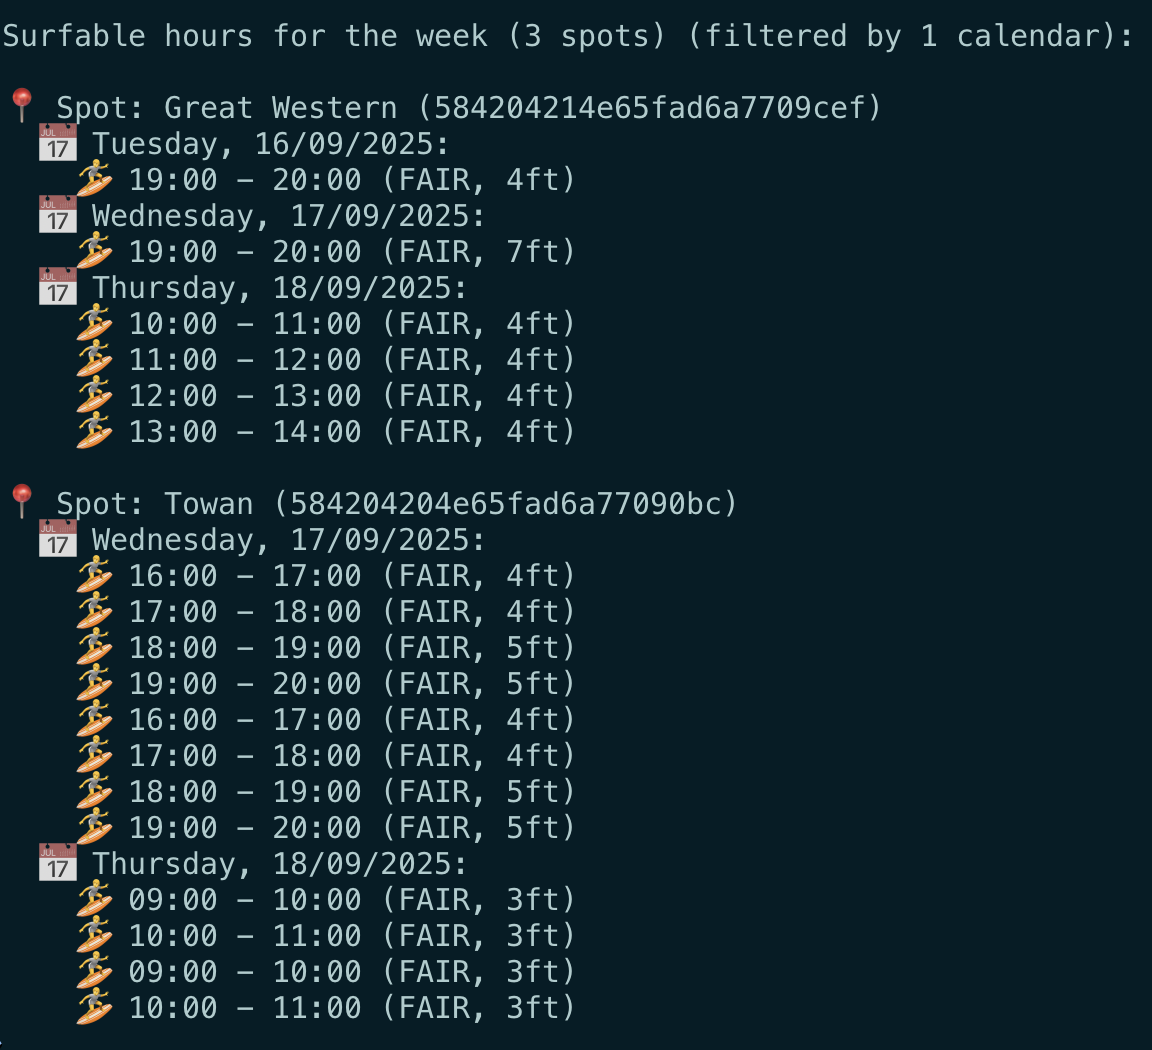
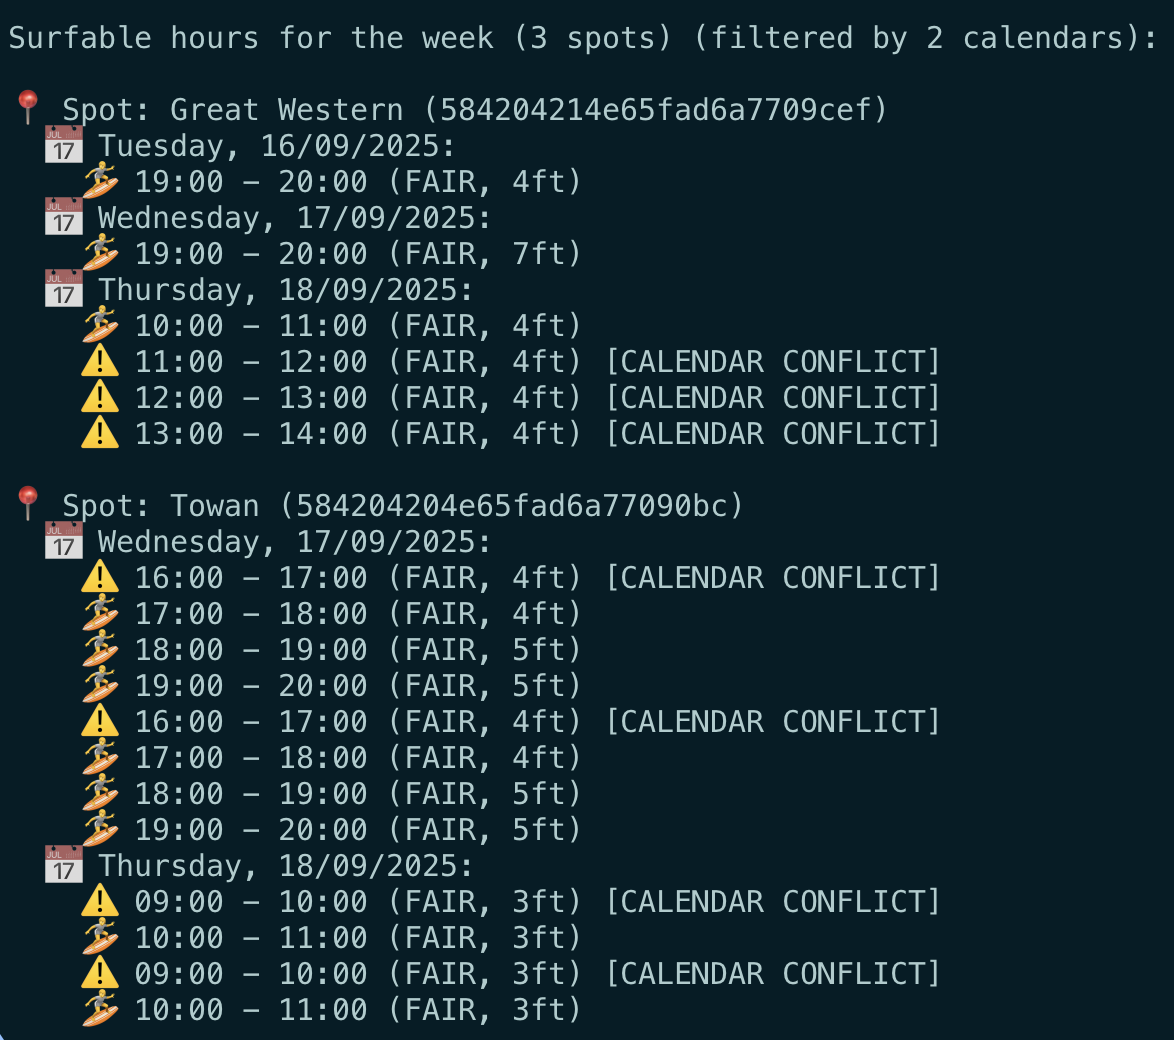
Update README

diff --git a/README.md b/README.md
@@ -9,84 +9,17 @@ Whether you're chasing dawn patrol sessions, planning weekend surf trips, or com
 - 🌊 Real-time surf condition analysis from Surfline's premium data
 - 📅 Smart calendar integration that shows conflicts without hiding opportunities
 - 🎯 Multi-spot comparisons to find the best waves in your area
-- 🤖 AI-powered session scheduling through MCP integration
-- ⚡ Lightning-fast CLI for quick condition checks
+- ⚙ Configurable criteria for wave height and surf rating thresholds
+- ☀ Intelligent filtering to daylight hours only
 - 🔮 7-day forecasting to plan your entire surf week
 
 Example:
 
 ```
-npx surfcal --spotId 584204214e65fad6a7709cef --spotId 584204204e65fad6a77090bc --spotId 584204204e65fad6a77090bc --week --wave-min 3 --rating-min FAIR
+npx surfcal --spotId 584204214e65fad6a7709cef --spotId 584204204e65fad6a77090bc --spotId 584204204e65fad6a77090bc --week --wave-min 3 --rating-min FAIR --calendar personal@gmail.com --calendar work@employer.io
 ```
 
 ![example.png](example.png)
-
-## Prerequisites
-
-- Node.js version ^18.14.0 or ^20.0.0
-- npm (comes with Node.js)
-
-## Setup
-
-1. Clone the repository:
-
-   ```
-   git clone git@github.com:bengro/surfcal.git
-   cd surfcal
-   ```
-
-2. Install dependencies:
-
-   ```
-   npm install
-   ```
-
-3. Set up environment variables:
-   Create a `.env` file in the project root or export the following variables in your shell:
-
-   ```
-   SURFLINE_EMAIL=your_surfline_email@example.com
-   SURFLINE_PASSWORD=your_surfline_password
-   GOOGLE_CALENDAR_API_KEY=your_google_calendar_api_key  # Optional for calendar integration
-   ```
-
-   - `SURFLINE_EMAIL` and `SURFLINE_PASSWORD` are required for authenticating with Surfline's API
-   - `GOOGLE_CALENDAR_API_KEY` is optional and enables calendar integration features
-
-## Build
-
-Compile the TypeScript source code to JavaScript:
-
-```
-npm run build
-```
-
-This generates the `dist/` directory with compiled JavaScript files.
-
-## Test
-
-Run the test suite using Jest:
-
-```
-npm test
-```
-
-This executes all unit tests located in the `src/` directory.
-
-## Linting
-
-This project uses Prettier for code formatting. You can check for and fix linting issues using the following commands:
-
-- To check for linting errors:
-
-  ```
-  npm run lint
-  ```
-
-- To automatically fix linting errors:
-  ```
-  npm run lint:fix
-  ```
 
 ## Usage
 
@@ -104,7 +37,7 @@ surfcal [--spotId spotId1] [--spotId spotId2] ... [--calendar calendarId1] [--ca
 - `--calendar`: Google Calendar ID to filter out busy times (can be used multiple times)
 - `--wave-min`: Minimum wave height in feet (default: 2)
 - `--rating-min`: Minimum surf rating (default: POOR_TO_FAIR)
-  - Valid ratings: VERY_POOR, POOR, POOR_TO_FAIR, FAIR, GOOD, VERY_GOOD
+    - Valid ratings: VERY_POOR, POOR, POOR_TO_FAIR, FAIR, GOOD, VERY_GOOD
 - `--today`: Get surfable hours for today
 - `--tomorrow`: Get surfable hours for tomorrow
 - `--week`: Get surfable hours for the next 7 days
@@ -281,41 +214,86 @@ Surfcal also provides an MCP (Model Context Protocol) server for AI-powered surf
    npm run test:mcp
    ```
 
-#### MCP Integration
-
-The MCP server provides:
-
-- **Tools**: Get surfable hours for today, tomorrow, week, or specific dates
-- **Resources**: Popular surf spots and server information
-- **AI Integration**: Works with Claude Desktop and other MCP-compatible clients
-
-For detailed MCP setup instructions, see [SETUP-GUIDE.md](./SETUP-GUIDE.md).
-
-#### Example AI Queries
-
-Once configured with Claude Desktop, you can ask:
-
-- _"Check surf conditions at Malibu for tomorrow and schedule a 2-hour surf session if conditions are good and I'm free"_
-- _"Look at surf conditions for the next 7 days at California spots and schedule sessions when waves are 3+ feet"_
-- _"Plan my weekend: find the best surf conditions and schedule sessions when I'm available"_
+#### MCP Integration (not verified yet)
 
 #### 🤖 AI Agent Vision: The Future of Intelligent Surf Planning
 
-Surfcal's MCP server is designed with a **separation of concerns** architecture that enables powerful AI agent workflows. Rather than building calendar integration directly into the Surfcal MCP server, we envision AI agents acting as intelligent brokers between specialized MCP servers:
+The goal is to let the agent broker between Surfline and Google Calendar to find the best surf sessions for you.
 
-**🏗 Modular Architecture:**
-
-- **Surfcal MCP Server**: Pure surf condition data provider (wave heights, conditions, surfable hours)
-- **Google Calendar MCP Server**: Pure calendar data provider (meetings, availability, scheduling)
-- **AI Agent**: Intelligent broker that combines both data sources for smart recommendations
-
-**🧠 Intelligent Brokering Examples:**
+**🧠 Examples:**
 
 - _"There are 4ft waves at Malibu from 2-4pm, but you have a meeting from 3-4pm. Should I reschedule your meeting to catch these epic conditions?"_
 - _"I found perfect dawn patrol conditions at Pipeline tomorrow 6-8am, and your calendar is free. Want me to book travel and block your calendar?"_
 - _"Your usual surf spots are flat this week, but I found firing conditions at Jeffreys Bay. Should I check flight prices and move your meetings?"_
 
 - This architecture keeps Surfcal focused on delivering the best surf forecasting data while enabling limitless AI-powered surf planning possibilities!
+
+## Prerequisites
+
+- Node.js version ^18.14.0 or ^20.0.0
+- npm (comes with Node.js)
+
+## Setup
+
+1. Clone the repository:
+
+   ```
+   git clone git@github.com:bengro/surfcal.git
+   cd surfcal
+   ```
+
+2. Install dependencies:
+
+   ```
+   npm install
+   ```
+
+3. Set up environment variables:
+   Create a `.env` file in the project root or export the following variables in your shell:
+
+   ```
+   SURFLINE_EMAIL=your_surfline_email@example.com
+   SURFLINE_PASSWORD=your_surfline_password
+   GOOGLE_CALENDAR_API_KEY=your_google_calendar_api_key  # Optional for calendar integration
+   ```
+
+   - `SURFLINE_EMAIL` and `SURFLINE_PASSWORD` are required for authenticating with Surfline's API
+   - `GOOGLE_CALENDAR_API_KEY` is optional and enables calendar integration features
+
+## Build
+
+Compile the TypeScript source code to JavaScript:
+
+```
+npm run build
+```
+
+This generates the `dist/` directory with compiled JavaScript files.
+
+## Test
+
+Run the test suite using Jest:
+
+```
+npm test
+```
+
+This executes all unit tests located in the `src/` directory.
+
+## Linting
+
+This project uses Prettier for code formatting. You can check for and fix linting issues using the following commands:
+
+- To check for linting errors:
+
+  ```
+  npm run lint
+  ```
+
+- To automatically fix linting errors:
+  ```
+  npm run lint:fix
+  ```
 
 ## Available Scripts
 
@@ -327,90 +305,10 @@ Surfcal's MCP server is designed with a **separation of concerns** architecture 
 - `npm run lint` - Check code formatting
 - `npm run lint:fix` - Fix code formatting issues
 
-## Project Structure
-
-The project follows clean architecture principles with a clear separation of concerns:
-
-```
-src/
-├── application/           # Application services (NEW!)
-│   └── surfable_hours_with_calendar_service.ts
-├── domain/                # Core business logic
-│   ├── get_surfable_hours.ts
-│   ├── calendar_filter_service.ts
-│   └── types.ts
-├── infrastructure/        # External service integrations
-│   ├── surfline_client/  # Surfline API client
-│   └── google_calendar_client/ # Google Calendar API client
-└── presentation/         # User interfaces
-    ├── cli/             # Command-line interface
-    │   ├── index.ts
-    │   └── runner.ts
-    └── mcp/             # Model Context Protocol server
-        └── server.ts
-```
-
-### Key Components
-
-- **Application Layer**: Application services that orchestrate domain and infrastructure components
-- **Domain Layer**: Contains the core surf condition logic and calendar filtering rules
-- **Infrastructure Layer**: Handles external API integrations (Surfline, Google Calendar)
-- **Presentation Layer**: Provides user interfaces (CLI and MCP server)
-
-## Calendar Integration Architecture
-
-The calendar integration feature follows Domain Driven Design principles with a clean separation of concerns:
-
-### Application Services
-
-- **SurfableHoursWithCalendarService**: Orchestrates the combination of Surfline data with Google Calendar conflict marking
-- Handles optional calendar integration and graceful fallback when calendar API is unavailable
-
-### Domain Services
-
-- **CalendarFilterService**: Pure domain logic for marking surfable hours with calendar conflicts
-- Uses time range overlap detection to identify conflicts between surf sessions and calendar events
-- No external dependencies - purely business logic
-
-### Infrastructure Integration
-
-- **GoogleCalendarClient**: Interface for Google Calendar API integration
-- **GoogleCalendarHttpClient**: HTTP implementation for production use
-- **GoogleCalendarFakeClient**: Test implementation for reliable testing
-
-### Key Features
-
-- **Smart Conflict Detection**: Marks surfable hours that overlap with calendar events using precise time range logic
-- **Complete Information**: Shows ALL surfable hours with clear visual indicators for conflicts
-- **Multiple Calendar Support**: Can check conflicts against multiple calendars simultaneously (work + personal)
-- **Informed Decision Making**: Users can see great surf conditions and decide if they're worth rescheduling meetings
-- **Graceful Degradation**: Works without calendar integration for backward compatibility
-- **Enhanced Visual Feedback**: Clear emoji and text indicators for conflicted vs. available times
-
-## Surf Condition Filtering
-
-The application filters surf conditions based on configurable criteria:
-
-- **Minimum wave height**: Configurable via `--wave-min` (default: 2 feet)
-- **Minimum rating**: Configurable via `--rating-min` (default: "Poor to Fair" or better)
-- **Daylight hours only**: Uses sunrise/sunset data to filter conditions
-
-### Customizable Criteria
-
-You can now customize the filtering criteria to match your surfing preferences:
-
-- **Wave Height**: Set minimum wave height from 0.5 to 20+ feet
-- **Surf Rating**: Choose from VERY_POOR, POOR, POOR_TO_FAIR, FAIR, GOOD, VERY_GOOD
-- **Use Cases**:
-  - Beginners: `--wave-min 1 --rating-min POOR`
-  - Intermediate: `--wave-min 2 --rating-min POOR_TO_FAIR` (default)
-  - Advanced: `--wave-min 4 --rating-min GOOD`
-  - Epic sessions only: `--wave-min 6 --rating-min VERY_GOOD`
-
 ## License
 
 ISC
 
 ## Disclaimer
 
-This project was predominantly written by Cline and Gemini.
+This project was predominantly written by Cline/Gemini and Windsurf/Claude.
